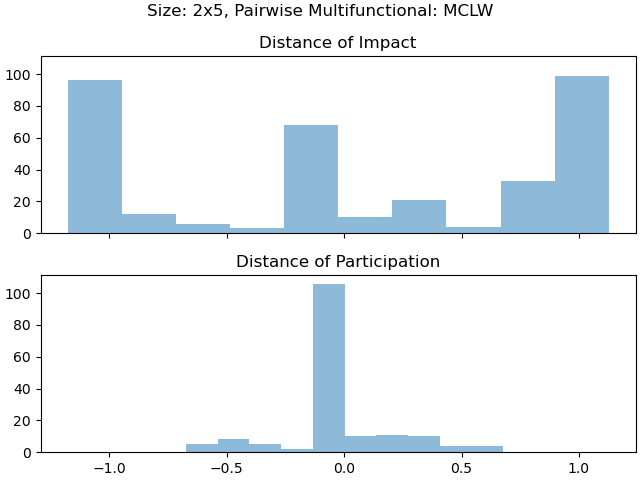
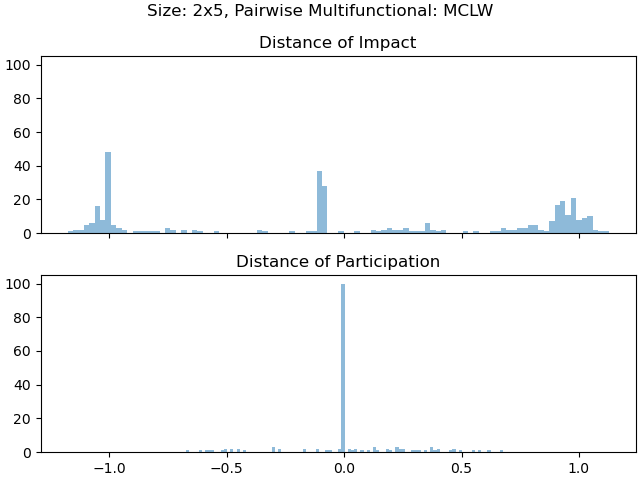
new histograms

diff --git a/Eduardo/3d_distance.py b/Eduardo/3d_distance.py
@@ -4,68 +4,128 @@ import numpy as np
 import matplotlib.colors as mcolors
 
 cmap = mcolors.LinearSegmentedColormap.from_list("", ["yellow", "orange", "red"])
-
-thresholds = [0.01,0.1,0.2,0.3,0.4,0.5,0.6,0.7,0.8,0.9,0.99]
-#thresholds.reverse()
+#[0,0.1],
+thresholds = [[0.1,0.2],[0.2,0.3],[0.3,0.4],[0.4,0.5],[0.5,0.6],[0.6,0.7],[0.7,0.8],[0.8,0.9],[0.9,1.0]]
+#thresholds = [0,0.1,0.2,0.3,0.4,0.5,0.6,0.7,0.8,0.9]
 
 reps = 100
 nn5 = 2*5
 impact5 = np.zeros((reps,nn5))
 
-newimpact = []
+#newimpact = []
+#totalimpact = []
 
 nI = 4
 nH = 10
 fig = plt.figure()
-ax = fig.add_subplot(111, projection='3d')
-nbins = 50
+ax = fig.add_subplot(111)
+#ax = fig.add_subplot(111, projection='3d')
+#nbins = 10
+
+#all_f1f2 = []
+
+all_hists = []
 for z in thresholds:
+    newimpact = []
     for i in range(reps):
-        #lesions
-        #f1 = 1 - (np.load("Eduardo/Data3/lesions_MCLW5_LW_40_"+str(i)+".npy"))
-        #f2 = 1 - (np.load("Eduardo/Data3/lesions_MCLW5_MC_40_"+str(i)+".npy"))
 
-        #variance
-        nn = np.load("Eduardo/Data3/state_MCLW5_LW_"+str(i)+".npy")
-        nn = np.var(nn[:,nI:nI+nH],axis=0)
-        max = np.max(nn)
-        f1 = nn/max
+        #print(z)
+        #large lesion value = large impact
+        f1 = 1 - (np.load("Eduardo/Data3/lesions_MCLW5_LW_40_"+str(i)+".npy"))
+        f2 = 1 - (np.load("Eduardo/Data3/lesions_MCLW5_MC_40_"+str(i)+".npy"))
 
-        nn = np.load("Eduardo/Data3/state_MCLW5_MC_"+str(i)+".npy")
-        nn = np.var(nn[:,nI:nI+nH],axis=0)
-        max = np.max(nn)
-        f2 = nn/max
+        f1[f1<0]=0
+        f2[f2<0]=0
 
-        #print('before',len(f1))
+        if z[0] == thresholds[0][0]:
+
+            plt.plot(f1,f2,'o',color='blue',alpha=0.5)
+        
+
+        #all_f1f2.append(f1+f2)
+
+        #np.logical_and(np.logical_and(f1>z[0], f2<z[1]), np.logical_and(f2>z[0],f2<z[1]))
+        inds = np.logical_and(np.logical_and(f1>=z[0], f2<z[1]), np.logical_and(f2>=z[0],f2<z[1]))
+        f1_vals = f1[inds]
+        f2_vals = f2[inds]
+
+        """
+
         for p, (x,y) in enumerate(zip(f1,f2)):
-            if x < z and y < z:
+
+            #ONLY PLOT things in between thresholds
+            
+            if x < z[0] and y < z[0]:
                 #print(x)
-                #indx = np.where(f1 == x)
-                #print(indx)
+                #print(y)
                 f1[p] = 200
                 f2[p] = 100
+            if x > z[1] and y > z[1]:
+                f1[p] = 200
+                f2[p] = 100
+            
 
-        impact5[i] = (f1-f2)
-        imp = impact5[i]
-        imp = imp[imp != 100]
-        newimpact.append(imp)
+            #try keepning neurons instead of discarding
+            if x > z[0] and y > z[0] and x < z[1] and y < z[1]:
+                f1[p] = x
+                f2[p] = y
+            else:
+                f1[p] = 200
+                f2[p] = 100
+        """
 
-    flat_list = [item for sublist in newimpact for item in sublist]
+
+            
+
+        newimpact.append(f1_vals-f2_vals)
+        #impact5[i] = (f1_vals-f2_vals)
+        #imp = impact5[i]
+        #imp = imp[imp != 100]
+        #print(len(imp))
+        #print(z)
+        #newimpact.append(imp)
+
+    #print(newimpact)
+    flat_list = np.concatenate(newimpact)
+    #flat_list = [item for sublist in newimpact for item in sublist]
 
 
-    #ys = np.random.normal(loc=10, scale=10, size=2000)
-
-    hist, bins = np.histogram(flat_list, bins=nbins)
+    hist, bins = np.histogram(flat_list, bins=np.arange(-1.01,1.01,0.1))
     xs = (bins[:-1] + bins[1:])/2
 
+    all_hists.append(hist)
+
+
+#plt.figure()
+
+#all_f1f2 = np.concatenate(all_f1f2)
+#plt.hist(all_f1f2,bins=100)
+
+plt.figure()
+
+print(np.sum(all_hists))
+print(np.shape(all_hists))
+#print(all_hists)
+plt.imshow(all_hists,extent=[-1,1,0,1],interpolation='nearest',  origin='lower',aspect='auto')
+ticks = np.arange(0,1,0.1)
+plt.gca().set_yticks(ticks)
+#plt.yticks(ticks)
+plt.colorbar()
+plt.xlabel("Distance")
+plt.ylabel("Threshold")
+plt.title("Neurons per threshold of Impact distance")
+plt.show()
+
+"""
     ax.bar(xs, hist, zs=z, zdir='y', color=cmap(hist/hist.max()),ec=cmap(hist/hist.max()), alpha=0.8)
 
 ax.set_xlabel('Distance')
 ax.set_ylabel('Threshold')
 ax.set_zlabel('# of neurons')
-ax.set_title("Distance of Variance: MCLW")
+ax.set_title("Distance of Impact: MCLW")
+#ax.view_init(30, -180)
 plt.show()
-
+"""
 
 
 

diff --git a/Eduardo/madhavun_code.py b/Eduardo/madhavun_code.py
@@ -1,0 +1,39 @@
+import numpy as np 
+import matplotlib.pyplot as plt
+
+
+
+plt.figure()
+all_f1s = []
+all_f2s = []
+
+# load all data
+for i in range(reps):
+    f1 = 1 - (np.load("Eduardo/Data3/lesions_MCLW5_LW_40_"+str(i)+".npy"))
+    f2 = 1 - (np.load("Eduardo/Data3/lesions_MCLW5_MC_40_"+str(i)+".npy"))
+
+    # cases that improved fitness upon leasioning
+    f1[f1<0]=0
+    f2[f2<0]=0
+
+    plt.plot(f1,f2,'o',color='blue',alpha=0.5)
+
+    all_f1s.append(f1)
+    all_f2s.append(f2)
+
+plt.xlabel("Impact MCLW_LW")
+plt.ylabel("Impact MCLW_MC")
+
+# 2D hist of the data
+all_f1s = np.concatenate(all_f1s)
+all_f2s = np.concatenate(all_f2s)
+H, _, _ = np.histogram2d(all_f1s, all_f2s, bins=[np.linspace(0,1,0.05)])
+
+plt.figure()
+plt.imshow(H, aspect="equal")
+plt.colorbar()
+plt.xlabel("Impact MCLW_LW")
+plt.ylabel("Impact MCLW_MC")
+
+print("Total number of neurons included in plot: ", np.sum(H))
+plt.show()

diff --git a/Eduardo/new_madhavun_code.py b/Eduardo/new_madhavun_code.py
@@ -1,0 +1,44 @@
+import numpy as np 
+import matplotlib.pyplot as plt
+
+plt.figure()
+all_f1s = []
+all_f2s = []
+
+reps = 100
+
+for i in range(reps):
+    f1 = 1 - (np.load("Eduardo/Data3/lesions_MCLW5_LW_40_"+str(i)+".npy"))
+    f2 = 1 - (np.load("Eduardo/Data3/lesions_MCLW5_MC_40_"+str(i)+".npy"))
+
+    f1[f1<0]=0
+    f2[f2<0]=0
+
+    plt.plot(f1,f2,'o',color='blue',alpha=0.5)
+
+    all_f1s.append(f1)
+    all_f2s.append(f2)
+
+
+plt.xlabel("Impact MCLW_LW")
+plt.ylabel("Impact MCLW_MC")
+
+all_f1s = np.concatenate(all_f1s)
+all_f2s = np.concatenate(all_f2s)
+
+bins = np.arange(0,1,0.05)
+print(bins)
+#print(bins)
+
+H, _, _ = np.histogram2d(all_f1s,all_f2s, bins=(bins,bins))
+
+plt.figure()
+#plt.xticks(bins)
+#plt.yticks(bins)
+plt.imshow(H,aspect="equal")
+plt.colorbar()
+plt.xlabel("Impact MCLW_LW")
+plt.ylabel("Impact MCLW_MC")
+
+print("total # in plot:", np.sum(H))
+plt.show()

diff --git a/Eduardo/newviz.py b/Eduardo/newviz.py
@@ -321,7 +321,7 @@ fig, axs = plt.subplots(2, sharex=True, sharey=True, constrained_layout=True)
 #newimpact = np.array(newimpact)
 flat_list = [item for sublist in newimpact for item in sublist]
 
-axs[0].hist(flat_list,10,density=False,alpha=0.5,label="2x5")
+axs[0].hist(flat_list,100,density=False,alpha=0.5,label="2x5")
 axs[0].set_title("Distance of Impact")
 
 #participation histogram
@@ -356,7 +356,7 @@ for i in range(reps):
 flat_list_part = [item for sublist in newpart for item in sublist]
 #print(len(flat_list_part))
 
-axs[1].hist(flat_list_part,10,density=False,alpha=0.5,label="2x5")
+axs[1].hist(flat_list_part,100,density=False,alpha=0.5,label="2x5")
 axs[1].set_title("Distance of Participation")
 
 fig.suptitle("Size: 2x5, Pairwise Multifunctional: MCLW")
